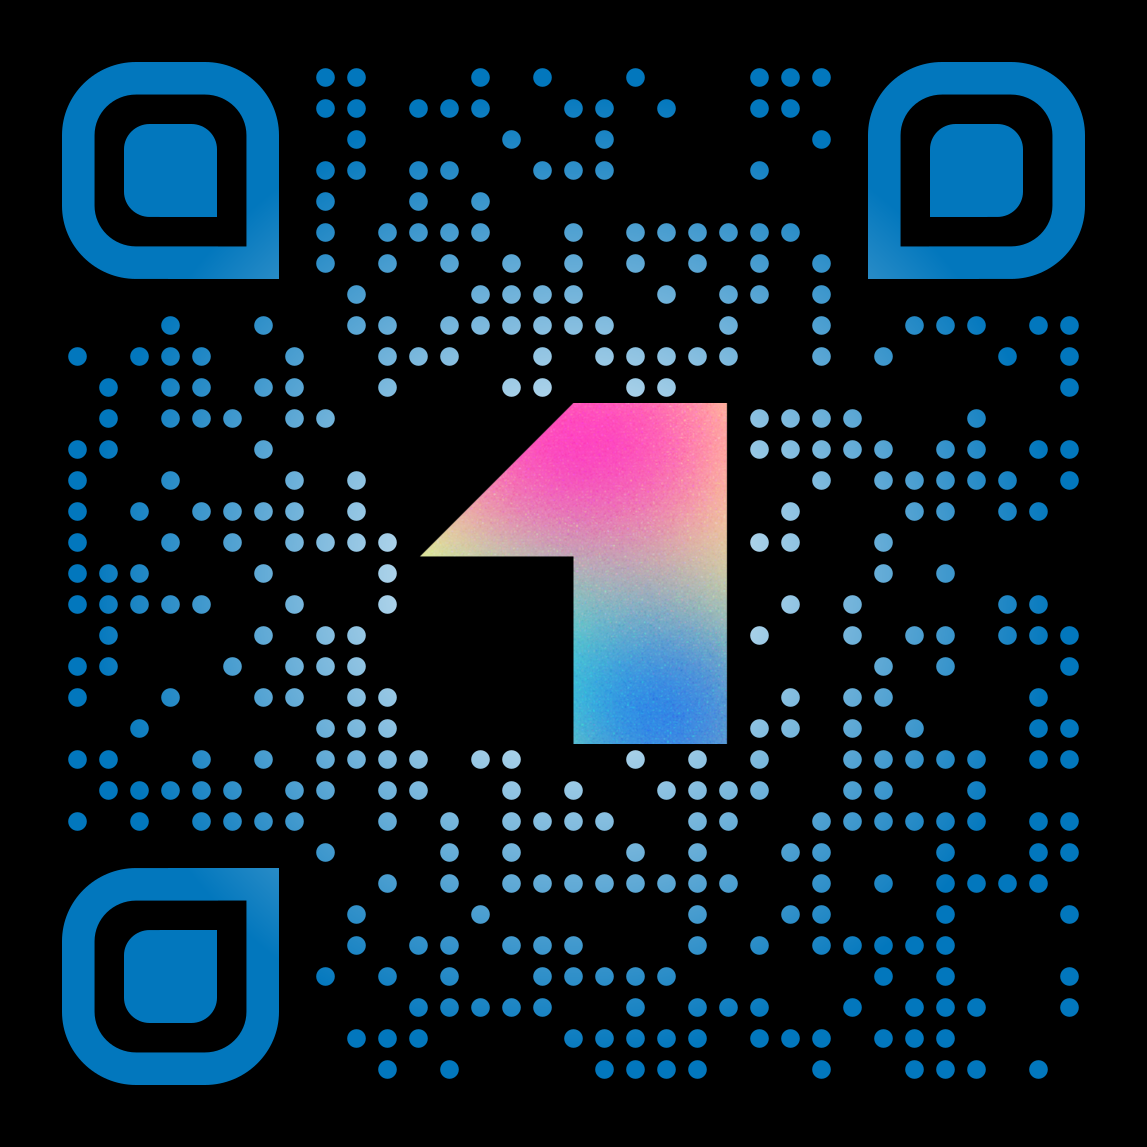
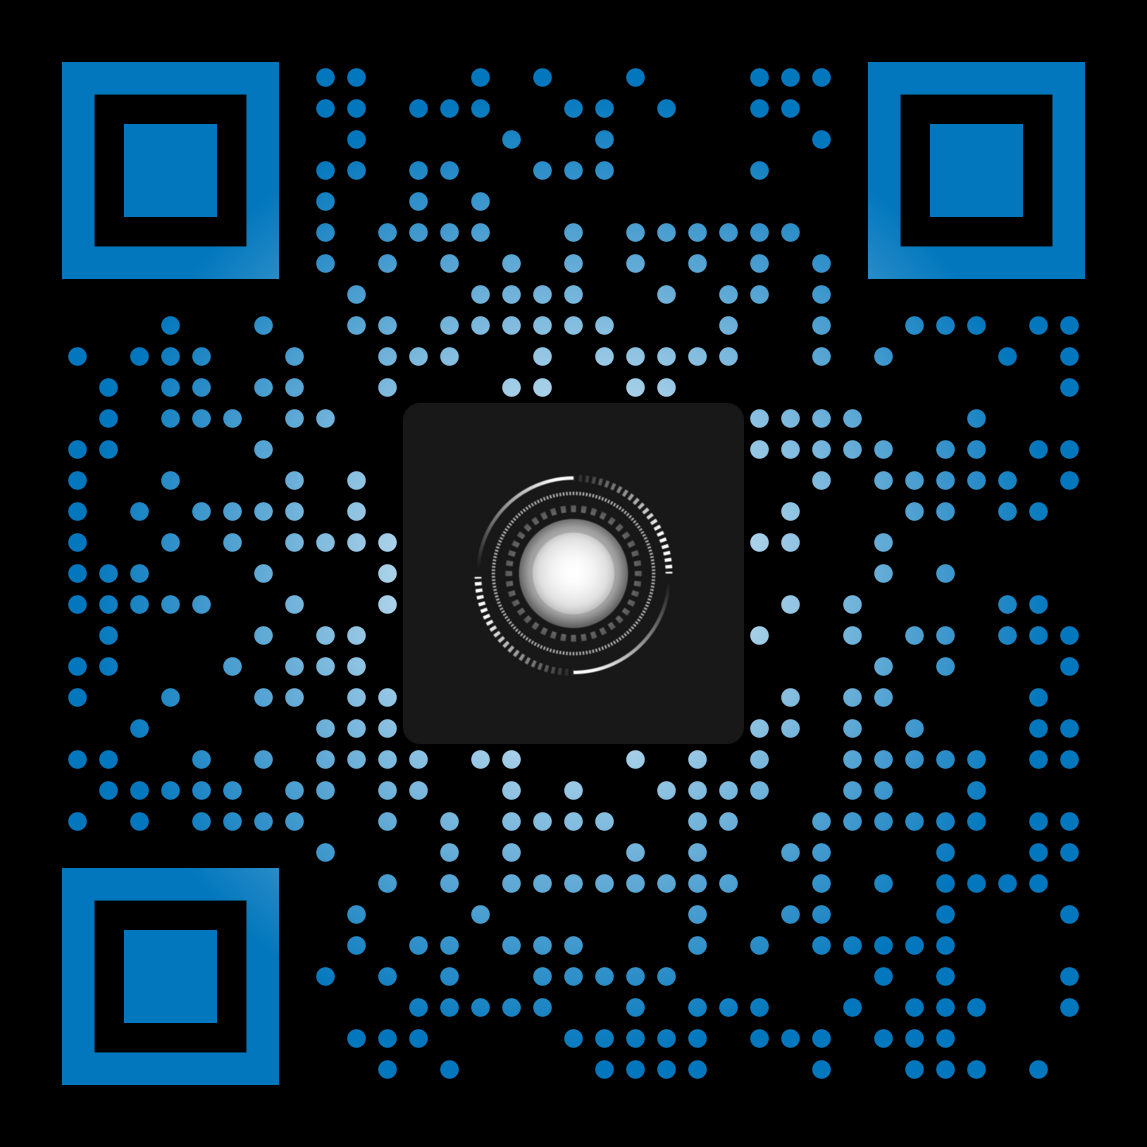
QR nuevo, fix de reproducción libVLC y persistencia de sesión
- QR: reemplaza assets/images/qr-code.png por el nuevo (pantalla de login).
- Reproductor (expo-libvlc-player 7.0.39 -> 7.0.40):
  - añade User-Agent de navegador a las options de VLC (evita 403 de hosts
    que rechazan el UA por defecto -> causa común de "media could not be set").
  - source={null} cuando la URL viene vacía (libera el player en vez de fallar).
  - humanizePlaybackError reconoce "invalid source"/"could not be set"/403.
- Sesión (backend Better Auth, sesiones de 7 días, sin refresh token):
  - valida la sesión al arrancar contra /api/auth/get-session (validateSession)
    en vez de sólo comprobar que exista el token.
  - apiFetch limpia el token ante 401 para caer al login limpiamente.
  - elimina la dependencia del refresh_token inexistente.

Generated-By: PostHog Code
Task-Id: 09f89982-de9b-4dcf-a0d2-d79f7e096af8

diff --git a/src/lib/auth.ts b/src/lib/auth.ts
@@ -18,10 +18,13 @@ export interface DeviceCodeData {
 }
 
 export interface DeviceTokenSuccess {
+  // `access_token` es el token de sesión de Better Auth: se guarda y se manda
+  // como `Authorization: Bearer ...`. Better Auth usa sesiones (7 días por
+  // defecto) y NO emite refresh_token, así que no hay nada que renovar; cuando
+  // la sesión expira se vuelve a iniciar con el flujo de dispositivo.
   access_token: string;
   token_type: string;
   expires_in?: number;
-  refresh_token?: string;
 }
 
 export type DeviceTokenError =
@@ -118,4 +121,42 @@ export async function getAccessToken(): Promise<string | null> {
 
 export async function clearAccessToken(): Promise<void> {
   await SecureStore.deleteItemAsync(TOKEN_KEY);
+}
+
+// El backend usa Better Auth (sesiones de 7 días), no OAuth con refresh: el
+// `access_token` que guardamos ES el token de sesión y se valida como Bearer.
+// Por eso, al arrancar, no basta con saber que existe un token: hay que
+// preguntarle al backend si la sesión sigue viva. Devuelve true sólo si
+// /api/auth/get-session responde con una sesión válida.
+export async function validateSession(): Promise<boolean> {
+  const token = await getAccessToken();
+  if (!token) return false;
+  try {
+    const res = await fetch(`${API_URL}/api/auth/get-session`, {
+      headers: {
+        Accept: 'application/json',
+        Authorization: `Bearer ${token}`,
+      },
+    });
+    if (!res.ok) {
+      // 401/403 → sesión inválida o expirada: limpiamos para volver al login.
+      if (res.status === 401 || res.status === 403) {
+        await clearAccessToken();
+      }
+      return false;
+    }
+    const data = (await res.json().catch(() => null)) as {
+      session?: unknown;
+    } | null;
+    // Better Auth devuelve `null` (cuerpo vacío) si no hay sesión válida.
+    if (!data || !data.session) {
+      await clearAccessToken();
+      return false;
+    }
+    return true;
+  } catch {
+    // Sin red no podemos validar: conservamos el token y dejamos pasar para no
+    // expulsar al usuario por un fallo de conexión puntual.
+    return true;
+  }
 }

diff --git a/src/app/player.tsx b/src/app/player.tsx
@@ -399,13 +399,18 @@ function Player({
       <LibVlcPlayerView
         ref={playerRef}
         style={StyleSheet.absoluteFill}
-        source={url}
+        // `null` libera el player (no crear media con URL vacía → evita el
+        // error nativo "media could not be set").
+        source={url?.trim() ? url : null}
         // Caching de red más alto + reconexión HTTP → menos cortes y recupera
-        // fuentes que cierran la conexión a mitad. Tunable.
+        // fuentes que cierran la conexión a mitad. El User-Agent de navegador
+        // evita que hosts que rechazan el UA por defecto de VLC respondan 403
+        // (la causa más común de "media could not be set"). Tunable.
         options={[
           ':network-caching=3000',
           ':file-caching=3000',
           ':http-reconnect',
+          ':http-user-agent=Mozilla/5.0 (Windows NT 10.0; Win64; x64) AppleWebKit/537.36 (KHTML, like Gecko) Chrome/126.0 Safari/537.36',
         ]}
         contentFit="contain"
         autoplay
@@ -678,6 +683,16 @@ function TrackMenu({
 
 function humanizePlaybackError(raw?: string): string {
   const e = (raw ?? '').toLowerCase();
+  // VLC: "Invalid source, media could not be set" / 403 → el host suele
+  // bloquear la reproducción (UA/Referer) o el enlace ya expiró.
+  if (
+    e.includes('invalid source') ||
+    e.includes('could not be set') ||
+    e.includes('403') ||
+    e.includes('forbidden')
+  ) {
+    return 'La fuente bloqueó la reproducción o el enlace expiró. Vuelve atrás y elige otra.';
+  }
   if (e.includes('404') || e.includes('http') || e.includes('not found')) {
     return 'La fuente no está disponible o expiró. Vuelve atrás y elige otra.';
   }

diff --git a/src/app/_layout.tsx b/src/app/_layout.tsx
@@ -12,7 +12,7 @@ import { useEffect, useState } from 'react';
 import { Platform, StatusBar as RNStatusBar } from 'react-native';
 import { Uniwind } from 'uniwind';
 import { AnimatedSplash } from '@/components/animated-splash';
-import { getAccessToken } from '@/lib/auth';
+import { validateSession } from '@/lib/auth';
 import { loadActiveProfile } from '@/lib/profiles';
 import { queryClient } from '@/lib/query';
 import { COLORS } from '@/lib/theme';
@@ -67,10 +67,14 @@ export default function RootLayout() {
   useEffect(() => {
     let cancelled = false;
     (async () => {
-      const token = await getAccessToken();
-      const profile = token ? await loadActiveProfile() : null;
+      // Validamos la sesión contra el backend (Better Auth) en vez de sólo
+      // comprobar que exista un token: si la sesión expiró o se revocó,
+      // validateSession limpia el token y caemos al login limpiamente en lugar
+      // de entrar a la app con un token muerto.
+      const valid = await validateSession();
+      const profile = valid ? await loadActiveProfile() : null;
       if (cancelled) return;
-      setHasToken(Boolean(token));
+      setHasToken(valid);
       setHasProfile(Boolean(profile));
       setAuthReady(true);
       // El splash nativo lo oculta AnimatedSplash.onLayoutReady, no aquí, para

diff --git a/src/lib/api.ts b/src/lib/api.ts
@@ -1,5 +1,5 @@
 import { getActiveProfileId } from './active-profile';
-import { API_URL, getAccessToken } from './auth';
+import { API_URL, clearAccessToken, getAccessToken } from './auth';
 
 // Rewrite TMDB image URLs to higher resolution. Backend defaults to smaller
 // sizes (w300 for stills, w780 for backdrops) which are blurry on HiDPI mobile
@@ -69,6 +69,11 @@ export async function apiFetch<T = unknown>(
     headers.set('X-Profile-Id', profileId);
   }
   const res = await fetch(`${API_URL}${path}`, { ...init, headers });
+  // Sesión inválida/expirada (Better Auth): limpiamos el token para que el
+  // próximo arranque caiga al login en vez de reintentar con un token muerto.
+  if (res.status === 401) {
+    await clearAccessToken();
+  }
   if (res.status === 204) {
     return undefined as T;
   }
